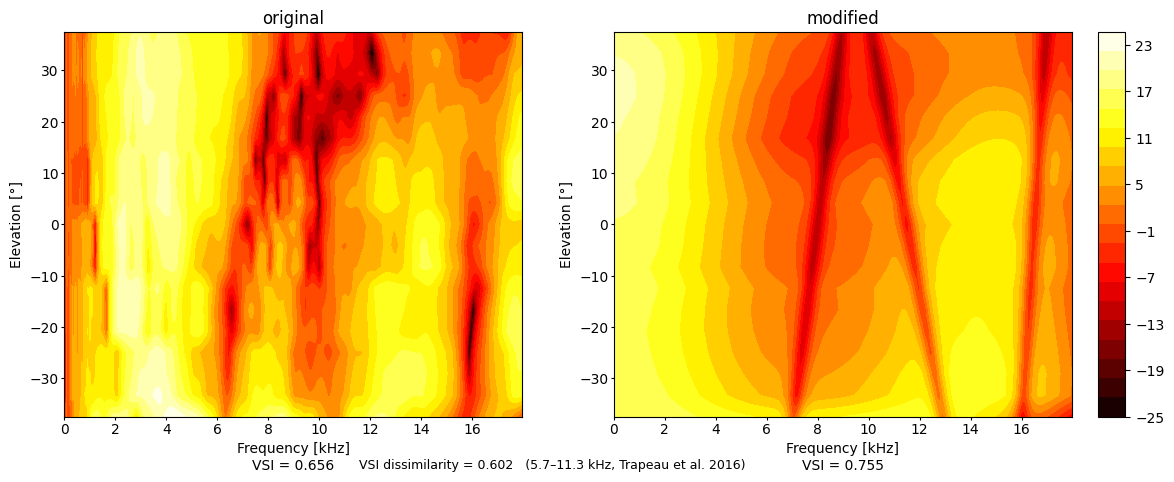
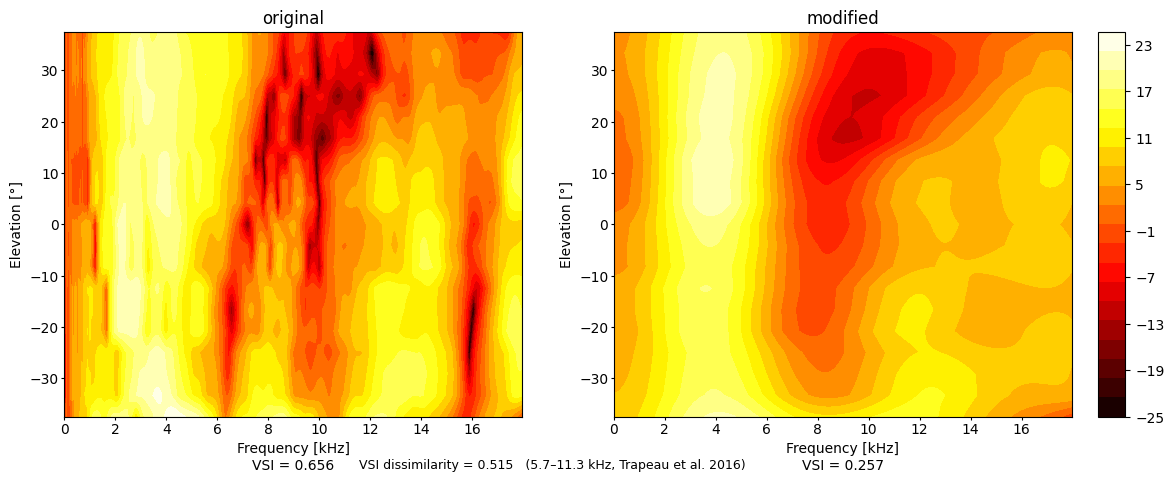
add experiment_procedure.py
record_hrir.py — builds the sofa path immediately after resolving base_dir, then returns early with a direct slab.HRTF(out_file) load if the file exists and overwrite=False. The full recording+DSP pipeline is only entered when actually needed. The redundant per-step sofa guard at step 7 is removed since we now only reach step 7 when we're genuinely building a new file.
Localization_AR.run() — the finally block now mutes the stream via OSC before killing, gives the process 3 s to shut down cleanly on SIGTERM, then calls .kill() (SIGKILL) if it's still alive and waits again. This covers the case where the pybinsim audio thread doesn't respond to SIGTERM quickly.
Training.py — removed the conditional that sometimes read azimuth_range from the last sequence. Training always uses its own AZ_RANGE / elevation_range from the script settings. The sequence is only used for the probabilistic target weighting, not for range control.
training_targets.py — three guards added in set_target_probabilistic: (1) if sector_size is absent from the sequence settings (standard midline sequence), fall back immediately; (2) after building candidates_per_sector, if no sector has any overlap with the training range, fall back immediately rather than reaching the broken numpy.arange(sources.shape[0]) last resort; (3) the tail fallback now only draws from the actual training-range candidates instead of potentially all sources.

Changed region(s): [[0.5213, 0.0622, 0.9199, 0.8714]]

diff --git a/experiment_procedure.py b/experiment_procedure.py
@@ -1,0 +1,214 @@
+"""
+experiment_procedure.py
+=======================
+Master script for the HRTF re-learning experiment.
+Run sections top-to-bottom on recording day; on daily sessions jump straight
+to the DAILY ROUTINE block.  Each step is a standalone call — comment out
+or re-run individual steps as needed, and adjust the settings dicts below
+before each run.
+
+Sections
+--------
+1. IMPORTS & SUBJECT
+2. SETTINGS  ← adjust hrir_settings / loc_settings / training_settings here
+3. RECORDING DAY
+   3a. HRIR recording
+   3b. HP equalization
+   3c. Acoustic sanity check
+   3d. Dome localization   (behavioral, standalone)
+   3e. VR localization     (behavioral, standalone)
+4. DAILY ROUTINE
+   4a. VR localization     (standalone, with daily parameters)
+   4b. Training session    (standalone)
+"""
+
+# =============================================================================
+# 1.  IMPORTS & SUBJECT
+# =============================================================================
+import logging
+import matplotlib
+matplotlib.use("TkAgg")
+from matplotlib import pyplot as plt
+import slab
+import freefield
+
+import hrtf_relearning as hr
+from hrtf_relearning.experiment.Subject import Subject
+from hrtf_relearning.hrtf.record.record_hrir import record_hrir
+from hrtf_relearning.hrtf.record.calibration.calibrate_headphones import (
+    calibrate_headphones, load_hp_filter,
+)
+from hrtf_relearning.hrtf.binsim.hrtf2binsim import hrtf2binsim
+from hrtf_relearning.experiment.Localization.Localization_dome import LocalizationDome
+from hrtf_relearning.experiment.Localization.Localization_AR import Localization
+from hrtf_relearning.experiment.HRIR_Recording import acoustic_test, compare_localization
+from hrtf_relearning.experiment.analysis.localization.localization_analysis import (
+    plot_localization, plot_elevation_response,
+)
+import hrtf_relearning.experiment.Training as Training
+
+logging.getLogger().setLevel("INFO")
+freefield.set_logger("info")
+ROOT = hr.PATH
+
+# =============================================================================
+# 2.  SETTINGS  ← edit before each run
+# =============================================================================
+
+SUBJECT_ID   = "NKa"
+HP_ID        = "MYSPHERE"       # headphone model
+REFERENCE_ID = "ref_03.04"     # dome calibration reference
+
+# --- HRIR settings (passed to hrtf2binsim and Localization) -----------------
+hrir_settings = dict(
+    name        = SUBJECT_ID + "_s1",   # binsim folder / filter set name
+    subject_id  = SUBJECT_ID,
+    ear         = None,                  # None | 'left' | 'right'
+    mirror      = False,
+    reverb      = True,
+    drr         = 20,
+    hp_filter   = True,
+    hp          = HP_ID,
+    convolution = "cuda",
+    storage     = "cuda",
+)
+
+# --- Localization settings ---------------------------------------------------
+loc_settings = dict(
+    kind              = "sectors",
+    azimuth_range     = (-60, 60),
+    elevation_range   = (-35, 35),
+    sector_size       = (14, 14),
+    targets_per_sector = 3,
+    replace           = False,
+    min_distance      = 20,
+    gain              = 0.2,
+    stim              = "noise",
+)
+
+# --- Training settings (daily, can override Training module globals) ---------
+training_settings = dict(
+    target_size     = 4,
+    target_time     = 0.5,
+    min_dist        = 30,
+    game_time       = 90,      # seconds per game
+    trial_time      = 10,
+    score_time      = 3,
+    gain            = 0.10,
+    azimuth_range   = (0, 35),
+    elevation_range = (-35, 35),
+)
+
+# --- Recording-day parameters ------------------------------------------------
+FS           = 48828
+N_DIRECTIONS = 3
+N_RECORDINGS = 10
+N_REC_HP     = 3
+
+slab.set_default_samplerate(FS)
+
+# Subject object (shared across all steps)
+subject  = Subject(SUBJECT_ID)
+plot_dir = ROOT / "data" / "results" / "plot" / SUBJECT_ID
+
+# =============================================================================
+# 3.  RECORDING DAY
+# =============================================================================
+
+# -----------------------------------------------------------------------------
+# 3a.  HRIR RECORDING
+# -----------------------------------------------------------------------------
+hrir = record_hrir(
+    subject_id   = SUBJECT_ID,
+    reference_id = REFERENCE_ID,
+    n_directions = N_DIRECTIONS,
+    n_recordings = N_RECORDINGS,
+    fs           = FS,
+    show         = True,
+    overwrite    = False,
+)
+
+# -----------------------------------------------------------------------------
+# 3b.  HP EQUALIZATION
+# -----------------------------------------------------------------------------
+logging.warning("--------- Check HP jack & model ---------")
+_hp_filter_path = ROOT / "data" / "hrtf" / "rec" / SUBJECT_ID / f"{HP_ID}_equalization.npz"
+try:
+    hp_filter = load_hp_filter(_hp_filter_path, "slab")
+    logging.info(f"HP filter loaded from disk: {_hp_filter_path.name}")
+except FileNotFoundError:
+    hp_filter = calibrate_headphones(
+        subject_id     = SUBJECT_ID,
+        hp_id          = HP_ID,
+        n_rec          = N_REC_HP,
+        show           = True,
+        save_freefield = False,
+    )
+
+# -----------------------------------------------------------------------------
+# 3c.  ACOUSTIC SANITY CHECK
+# -----------------------------------------------------------------------------
+acoustic_test(hrir, hp_filter, subject_id=SUBJECT_ID, hp_id=HP_ID, show=True)
+
+# -----------------------------------------------------------------------------
+# 3d.  DOME LOCALIZATION  (real speakers — standalone call)
+# -----------------------------------------------------------------------------
+dome_loc_settings = dict(
+    targets_per_speaker = 3,
+    min_distance        = 15,
+    gain                = 1.0,
+)
+dome_loc = LocalizationDome(subject, hrir_settings, loc_settings=dome_loc_settings)
+dome_loc.run()
+plot_elevation_response(subject.localization[dome_loc.filename], filepath=plot_dir)
+
+# -----------------------------------------------------------------------------
+# 3e.  VR LOCALIZATION  (pybinsim — standalone call)
+# -----------------------------------------------------------------------------
+logging.warning("--------- Switch HP jack to PC ---------")
+vr_loc = Localization(subject, hrir_settings, loc_settings=loc_settings)
+vr_loc.run()
+plot_elevation_response(subject.localization[vr_loc.filename], filepath=plot_dir)
+
+# Comparison: dome vs VR
+compare_localization(
+    dome_seq   = dome_loc.sequence,
+    vr_seq     = vr_loc.sequence,
+    subject_id = SUBJECT_ID,
+    filepath   = plot_dir,
+)
+
+# =============================================================================
+# 4.  DAILY ROUTINE  (run from here on subsequent days)
+# =============================================================================
+# Adjust hrir_settings / loc_settings / training_settings above before running.
+
+# -----------------------------------------------------------------------------
+# 4a.  VR LOCALIZATION  (standalone — run once or more per session)
+# -----------------------------------------------------------------------------
+# Quick-edit: update hrir_settings / loc_settings above, then re-run this block.
+vr_loc = Localization(subject, hrir_settings, loc_settings=loc_settings)
+vr_loc.run()
+plot_localization(
+    subject.localization[vr_loc.filename],
+    report_stats = ["azimuth", "elevation"],
+    filepath     = plot_dir,
+)
+plot_elevation_response(subject.localization[vr_loc.filename], filepath=plot_dir)
+plt.show()
+
+# -----------------------------------------------------------------------------
+# 4b.  TRAINING SESSION  (standalone — run daily after localization)
+# -----------------------------------------------------------------------------
+# Push any overrides into the Training module before calling play_session().
+Training.SUBJECT_ID = SUBJECT_ID
+Training.HRIR_NAME  = hrir_settings["name"]
+Training.EAR        = hrir_settings.get("ear")
+Training.HP         = HP_ID
+Training.AZ_RANGE   = training_settings["azimuth_range"]
+Training.settings.update(training_settings)
+# Reload HRIR inside Training with current settings
+Training.hrir = hrtf2binsim(hrir_settings)
+Training.subject = Subject(SUBJECT_ID)
+
+Training.play_session()

diff --git a/hrtf_relearning/experiment/misc/training_helpers/training_targets.py b/hrtf_relearning/experiment/misc/training_helpers/training_targets.py
@@ -100,10 +100,14 @@ def set_target_probabilistic(target, settings, sequence, hrir, max_sector_hops=1
     try:
         sector_centers = sequence.response_errors[:, :2]
     except AttributeError:
-        logging.debug('Could not load target probabilities. Returning random target.')
+        logging.debug('No response_errors on sequence. Falling back to uniform sampling.')
         return set_target(target, settings, hrir)
 
-    sector_size = sequence.settings['sector_size']
+    # sector_size may be absent on simple 'standard' sequences (e.g. midline-only)
+    sector_size = sequence.settings.get('sector_size', None)
+    if sector_size is None:
+        logging.debug('No sector_size in sequence settings. Falling back to uniform sampling.')
+        return set_target(target, settings, hrir)
 
     # training ranges
     train_az = settings['az_range']
@@ -113,6 +117,16 @@ def set_target_probabilistic(target, settings, sequence, hrir, max_sector_hops=1
     candidates_per_sector = _build_sector_candidate_indices(
         hrir, sector_centers, sector_size, train_az, train_el
     )
+
+    # If the sequence has no overlap with the training range (e.g. midline-only
+    # sequence used before a wide-field training session), skip probabilistic
+    # targeting entirely rather than falling back to all sources.
+    if not any(len(idx) > 0 for idx in candidates_per_sector):
+        logging.warning(
+            'Sequence sectors have no overlap with training range az=%s el=%s. '
+            'Falling back to uniform sampling.', train_az, train_el
+        )
+        return set_target(target, settings, hrir)
 
     # probabilities from response_errors
     probs = sequence.response_errors[:, 3]
@@ -139,10 +153,9 @@ def set_target_probabilistic(target, settings, sequence, hrir, max_sector_hops=1
                 break
             probs /= probs.sum()
 
-    # Fallback: uniform over *all* candidates that meet min_dist
+    # Fallback: uniform over all training-range candidates that meet min_dist
     logging.warning("Probabilistic sector selection failed to satisfy min_dist; falling back to uniform.")
-    all_idx = numpy.concatenate([idx for idx in candidates_per_sector if len(idx) > 0]) \
-              if any(len(idx) > 0 for idx in candidates_per_sector) else numpy.arange(sources.shape[0])
+    all_idx = numpy.concatenate([idx for idx in candidates_per_sector if len(idx) > 0])
     numpy.random.shuffle(all_idx)
     for i in all_idx:
         az = _wrap180(sources[i, 0]); el = sources[i, 1]

diff --git a/hrtf_relearning/hrtf/record/record_hrir.py b/hrtf_relearning/hrtf/record/record_hrir.py
@@ -72,6 +72,19 @@ def record_hrir(
     else:
         base_dir = Path(base_dir)
 
+    out_file = base_dir / 'sofa' / f'{subject_id}.sofa'
+
+    # Early exit: load and return existing SOFA without re-running the pipeline
+    if not overwrite and out_file.exists():
+        logging.info(f"Loading existing HRTF from {out_file}")
+        hrtf = slab.HRTF(str(out_file))
+        if show:
+            import matplotlib.pyplot as plt
+            fig, axes = plt.subplots(1, 2)
+            hrtf.plot_tf(hrtf.cone_sources(0), axis=axes, ear='both')
+            plt.show()
+        return hrtf
+
     subj_dir = base_dir / "rec" / subject_id
     ref_dir = base_dir / "rec" / "reference" / reference_id
 
@@ -167,10 +180,8 @@ def record_hrir(
     # 7) Export to slab.HRTF
     # -----------------------------------------------------------------
     hrtf = hrir_az_exp.to_slab_hrtf(datatype="FIR")
-    out_file = base_dir / 'sofa' / f'{subject_id}.sofa'
-    if overwrite or not out_file.exists():
-        logging.info("writing HRTF to {}".format(out_file))
-        hrtf.write_sofa(out_file)
+    logging.info(f"Writing HRTF to {out_file}")
+    hrtf.write_sofa(out_file)
 
     if show:
         import matplotlib.pyplot as plt

diff --git a/hrtf_relearning/experiment/Training.py b/hrtf_relearning/experiment/Training.py
@@ -372,15 +372,9 @@ def play_session():
     subject = Subject(SUBJECT_ID)
     sequence = subject.last_sequence
 
-    if sequence and not(settings['azimuth_range'] and settings['elevation_range']):
-        az_range = tuple(sequence.settings["azimuth_range"])
-        ele_range = tuple(sequence.settings["elevation_range"])
-        logging.info("Using sequence-based target ranges: az=%s el=%s", az_range, ele_range)
-    else:
-        az_range = settings['azimuth_range']
-        ele_range = settings['elevation_range']
-        logging.info("Using custom target range: az=%s el=%s", az_range, ele_range)
-
+    az_range  = settings['azimuth_range']
+    ele_range = settings['elevation_range']
+    logging.info("Training target range: az=%s el=%s", az_range, ele_range)
     settings = dict(settings, az_range=az_range, ele_range=ele_range)
 
     # Shared state for workers

diff --git a/hrtf_relearning/experiment/Localization/Localization_AR.py b/hrtf_relearning/experiment/Localization/Localization_AR.py
@@ -85,8 +85,16 @@ class Localization:
             logging.info('Finished.')
         finally:
             self.motion_sensor.halt()
+            try:  # mute before killing so the audio stream stops cleanly
+                self.osc_client_2.send_message('/pyBinSimLoudness', 0)
+                time.sleep(0.1)
+            except Exception:
+                pass
             self.binsim_worker.terminate()
-            self.binsim_worker.join()
+            self.binsim_worker.join(timeout=3)
+            if self.binsim_worker.is_alive():  # SIGTERM wasn't enough — force-kill
+                self.binsim_worker.kill()
+                self.binsim_worker.join()
 
     def play_trial(self):
         # generate stimulus

diff --git a/hrtf_relearning/hrtf/processing/modify.py b/hrtf_relearning/hrtf/processing/modify.py
@@ -43,7 +43,7 @@ from sklearn.linear_model import LinearRegression
 from hrtf_relearning import PATH
 hrtf_dir = PATH / 'data' / 'hrtf' / 'sofa'
 import slab
-from hrtf_relearning.hrtf.analysis.vsi import vsi as _vsi, vsi_dissimilarity as _vsi_dissimilarity
+from hrtf_relearning.hrtf.analysis.vsi import (vsi as _vsi, vsi_dissimilarity as _vsi_dissimilarity)
 
 sub_id = 'NKa'
 
@@ -77,7 +77,7 @@ FEATURES = [
     },
     # Add further features here, e.g.:
     {
-        'freqs': (9000, 11000),
+        'freqs': (9000, 10000),
         'width': (300, 300),
         'depth': (12, 12),   # negative → peak
         'X1': (0, 0),
@@ -94,7 +94,7 @@ FEATURES = [
 
 # FEATURES = []  # no features
 
-
+FEATURES = []
 
 # ---------------------------------------------------------------------------
 # Shared helpers (same as modify.py)